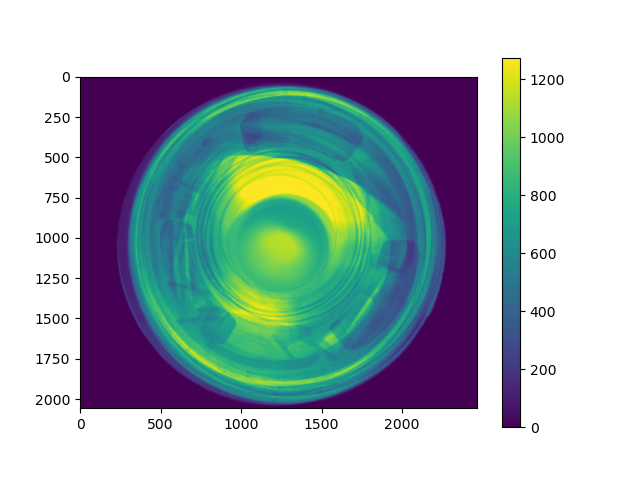
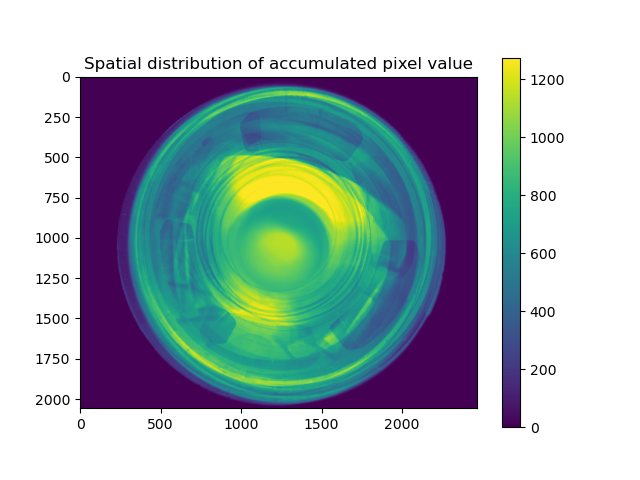
update

Changed region(s): [[0.125, 0.125, 0.75, 0.1562]]

diff --git a/code/Main.py b/code/Main.py
@@ -18,22 +18,23 @@ def main():
     MyGa = GalleryAnalyzer(dir_path)
     fig1 = plt.figure()
     MyGa.createKDEHistogram()
-    plt.title("Pixel distribution of entire dataset")
+    plt.title("Density aproximation for pixel intensities of entire dataset")
     fig2 = plt.figure()
     MyGa.createHistogram()
-    plt.title("Density aproximation for pixel intensities of entire dataset")
-    fig3 = plt.figure()
+    plt.title("Pixel distribution of entire dataset")
     My2D = TwoDAnalyzer(dir_path)
-    My2D.plotAvgVal2DHist()
-    fig4 = plt.figure()
+    fig3 = plt.figure()
     My2D.plotAccVal2DHist()
-
+    plt.title("Spatial distribution of accumulated pixel value")
+    fig4 = plt.figure()
+    My2D.plotAvgVal2DHist()
+    plt.title("Spatial distribution of average pixel value")
 
     if len(sys.argv) > 2:
         fig1.savefig(sys.argv[2] % "smoothed_pixel_distribution")
         fig2.savefig(sys.argv[2] % "pixel_distribution")
-        fig3.savefig(sys.argv[2] % '2D distribution of average pixel value')
-        fig4.savefig(sys.argv[2] % '2D distribution of accumulated pixel value')
+        fig3.savefig(sys.argv[2] % '2D distribution of accumulated pixel value')
+        fig4.savefig(sys.argv[2] % '2D distribution of average pixel value')
     else:
         plt.show()
 

diff --git a/code/frequency_analyzer.py b/code/frequency_analyzer.py
@@ -61,6 +61,7 @@ class GalleryAnalyzer:
         """Creates histogram using dataset of pixels from all images in a directory"""
         data = {'Frequency': self.freqs/np.sum(self.freqs), 'Intensity': np.arange(256)}
         sns.histplot(data, x='Intensity', weights='Frequency', bins=bins)
+        plt.ylabel('Frequency')
 
     def createKDEHistogram(self):
         """Creates histogram using dataset of pixels from all images in a directory"""
